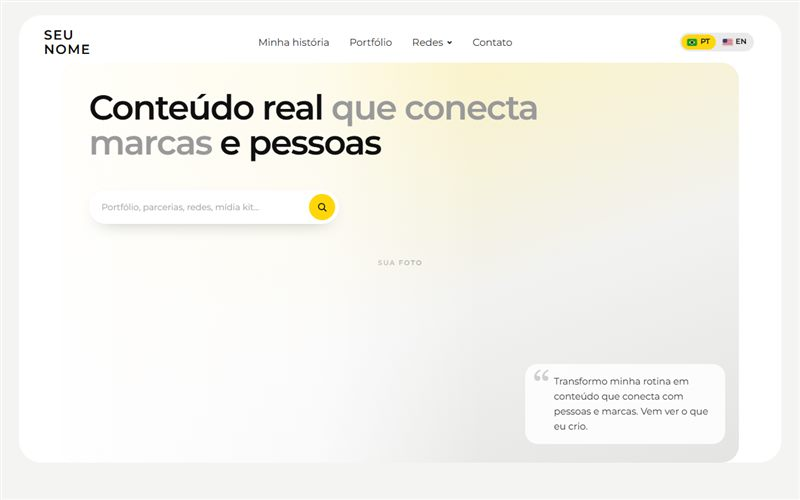
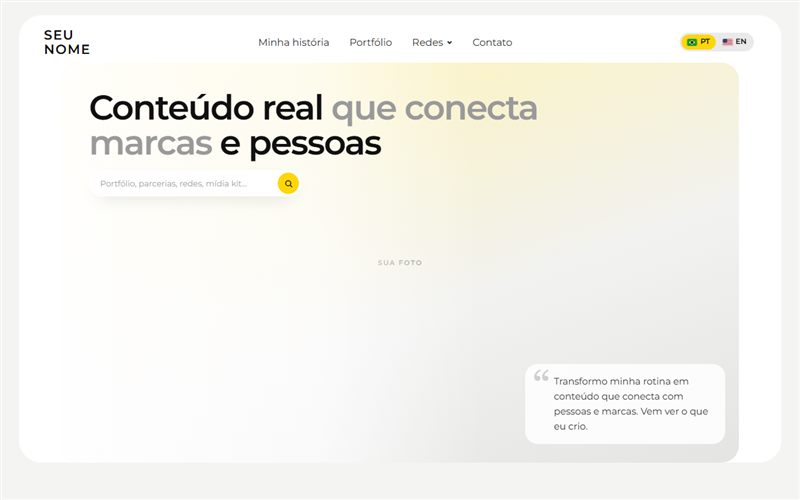
Atualiza index.html

Changed region(s): [[0.125, 0.36, 0.3125, 0.42], [0.375, 0.39, 0.4375, 0.45], [0.3438, 0.33, 0.375, 0.39]]

diff --git a/cliente/index.html b/cliente/index.html
@@ -540,7 +540,7 @@ document.getElementById("sair").addEventListener("click", () => { location.href 
 //   link: endereço para "Ver o modelo" | imagem: caminho da imagem de capa (ex.: "../fotos/modelos/01.jpg")
 //   estilo: só para os modelos provisórios sem imagem ("clean", "colorido" ou "elegante")
 const MODELOS = [
-  { tipo: "Bio link",  nome: "Diário de creator", categoria: "Clean e fofo", link: "../modelos/biolink-01/", imagem: "../fotos/modelos/bio-01.jpg?v=9" },
+  { tipo: "Bio link",  nome: "Diário de creator", categoria: "Clean e fofo", link: "../modelos/biolink-01/", imagem: "../fotos/modelos/bio-01.jpg?v=10" },
   { tipo: "Portfólio", nome: "Editorial creme e azul", categoria: "Editorial", link: "../modelos/estilo-01/", imagem: "../fotos/modelos/01.jpg?v=5" },
   { tipo: "Portfólio", nome: "Scrapbook rosa e amarelo", categoria: "Divertido", link: "../modelos/estilo-02/", imagem: "../fotos/modelos/02.jpg?v=4" },
   { tipo: "Portfólio", nome: "Editor flutuante", categoria: "Moderno", link: "../modelos/estilo-03/", imagem: "../fotos/modelos/03.jpg?v=7" },

diff --git a/modelos/biolink-01/index.html b/modelos/biolink-01/index.html
@@ -454,7 +454,12 @@ h1{font-weight:600;font-size:clamp(38px,11vw,70px);line-height:1;letter-spacing:
   /* foto mais estreita, texto e caixinhas mais largos */
   .capa{display:block;min-height:min(calc(100svh - 120px),640px);padding:44px calc(var(--gutter) + 44px) 48px}
   .capa h1{font-size:clamp(40px,4.3vw,58px);max-width:760px}
-  .capa-esquerda{max-width:400px;padding-top:30px}
+  .capa-esquerda{max-width:340px;padding-top:0}
+  /* pesquisa menor e mais perto do título */
+  .capa .pesquisa{margin-top:16px;padding:4px 4px 4px 16px}
+  .capa .pesquisa input{font-size:13px}
+  .capa .pesquisa button{width:34px;height:34px}
+  .capa .pesquisa svg{width:15px;height:15px}
   .capa .capa-foto::after{background:linear-gradient(90deg,rgba(255,255,255,.94),rgba(255,255,255,.7) 38%,rgba(255,255,255,0) 62%)}
   .sobre-mim{grid-template-columns:minmax(0,.8fr) minmax(0,1.2fr);gap:48px;padding:44px 48px;margin-top:56px;align-items:start}
   .sobre-mim h2{font-size:56px}
